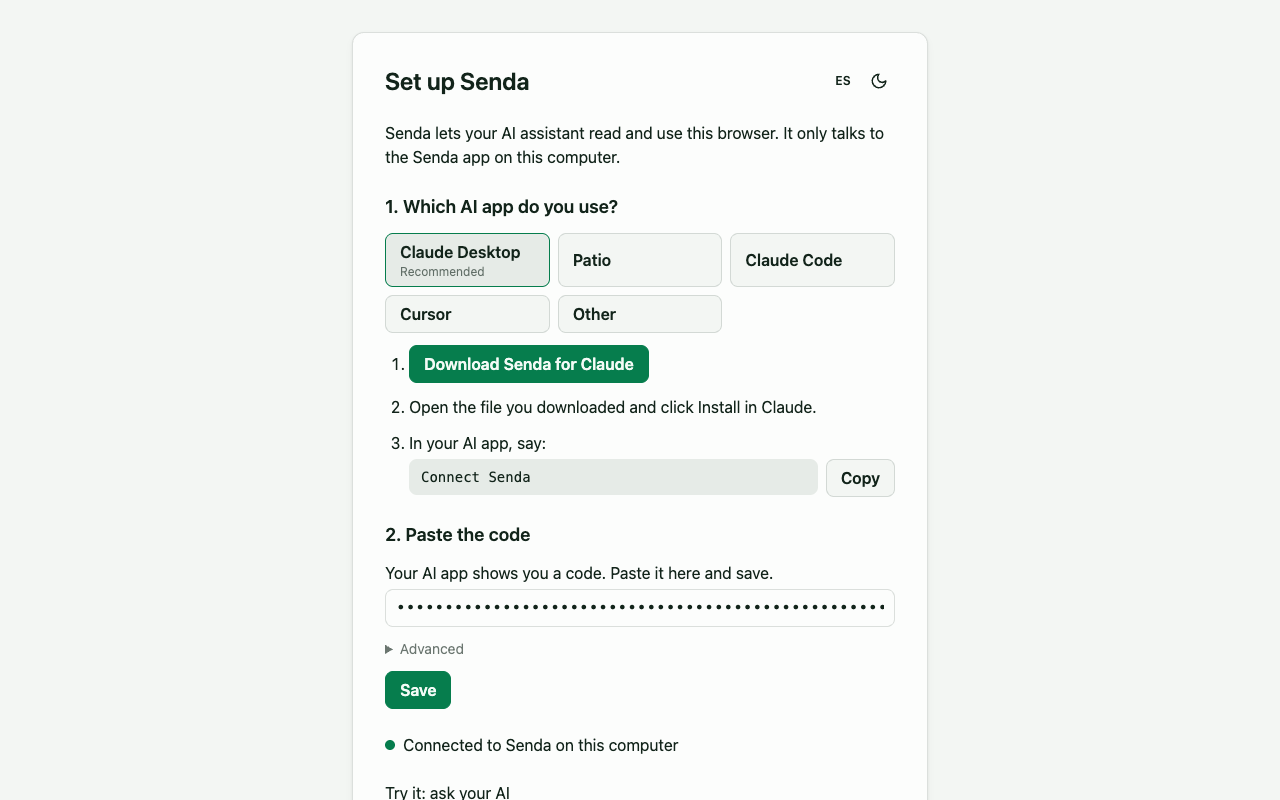
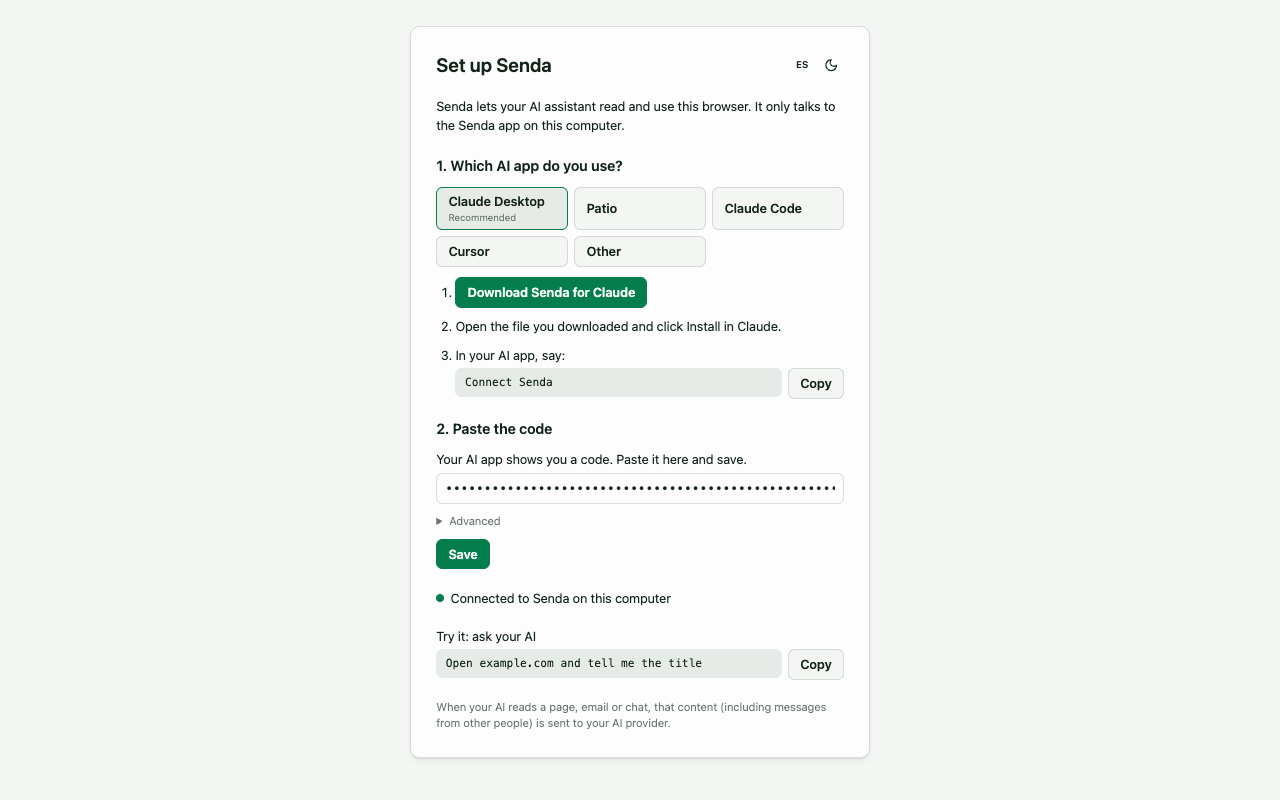
docs(store): fit the whole setup page in the 1280x800 store screenshot (PROJ-277)

diff --git a/packages/extension/e2e/readme-shots.spec.ts b/packages/extension/e2e/readme-shots.spec.ts
@@ -16,6 +16,8 @@ test('README screenshots', async ({ context, mcp, openSidepanel }) => {
   await setup.setViewportSize({ width: 900, height: 760 });
   await setup.screenshot({ path: out('setup.png'), fullPage: true });
   await setup.setViewportSize(store);
+  // The whole page is taller than 800 px; shrink it so the store shot shows every step.
+  await setup.evaluate(() => (document.body.style.zoom = '0.8'));
   await setup.screenshot({ path: out('store/screenshots/setup.png') });
 
   const file = new URL('../tests/fixtures/adapters/fixturemoodle.json', import.meta.url);
